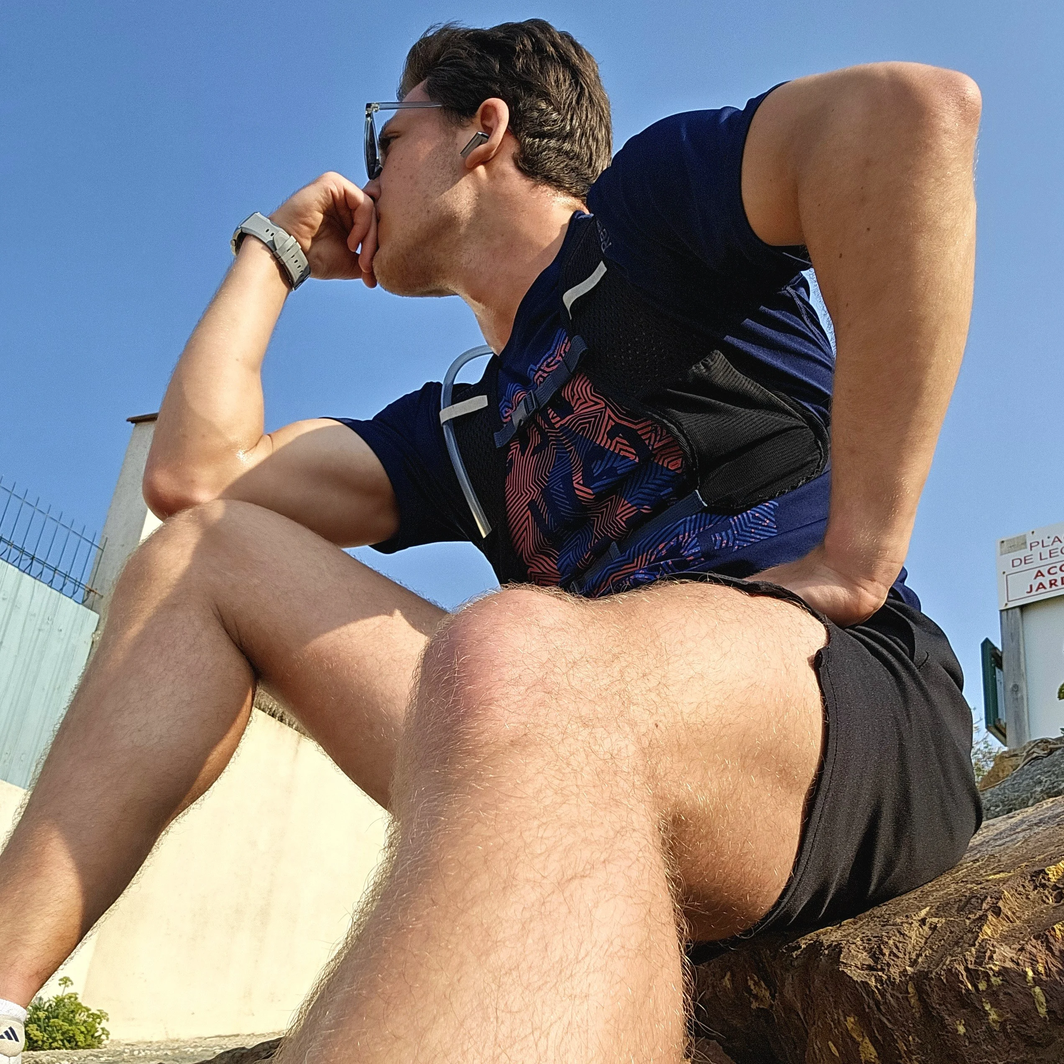
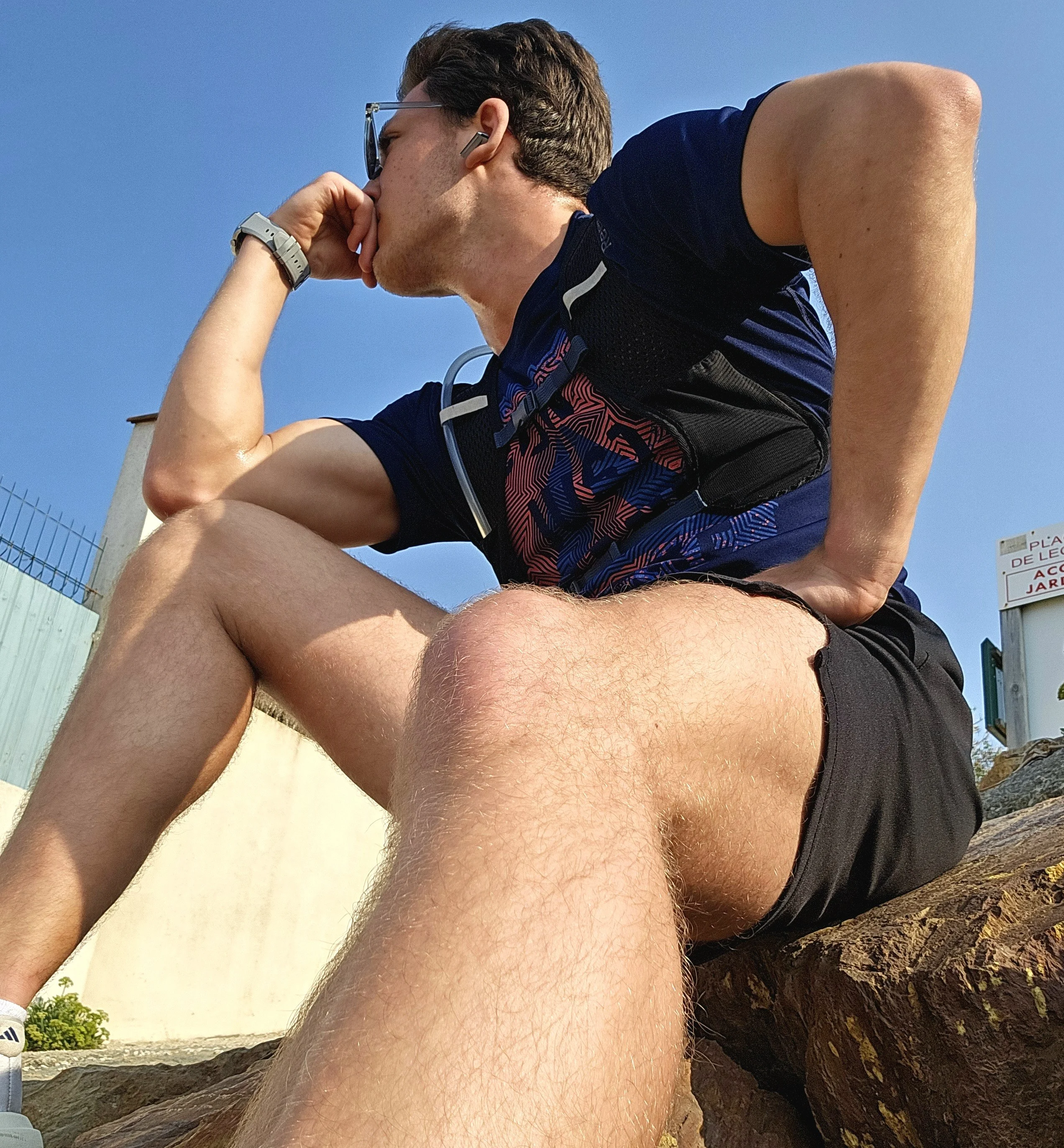
correct gallery perso

diff --git a/about.html b/about.html
@@ -393,8 +393,8 @@ og_type: profile
         </section>
         <section class="Gallery">
             <div class="SectionTitle Left">
-                <span class="Eyebrow">La gallerie</span>
-                <h2 class="Title">Toujours dans la joie et la bonne humeur !</h2>
+                <span class="Eyebrow">La gallerie (un peu plus perso)</span>
+                <h2 class="Title">Pas toujours au travail..</h2>
             </div>
             <div class="Grid">
                 <img src="/img/perso/running-plage.webp" alt="Course à pied sur la plage de la Mine, Jard-sur-Mer">
